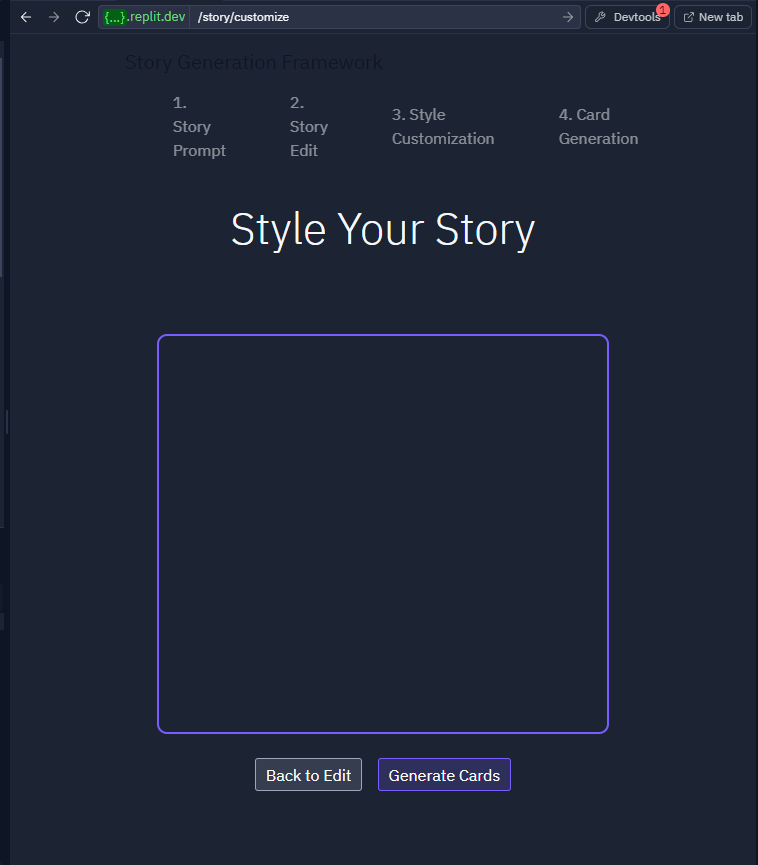
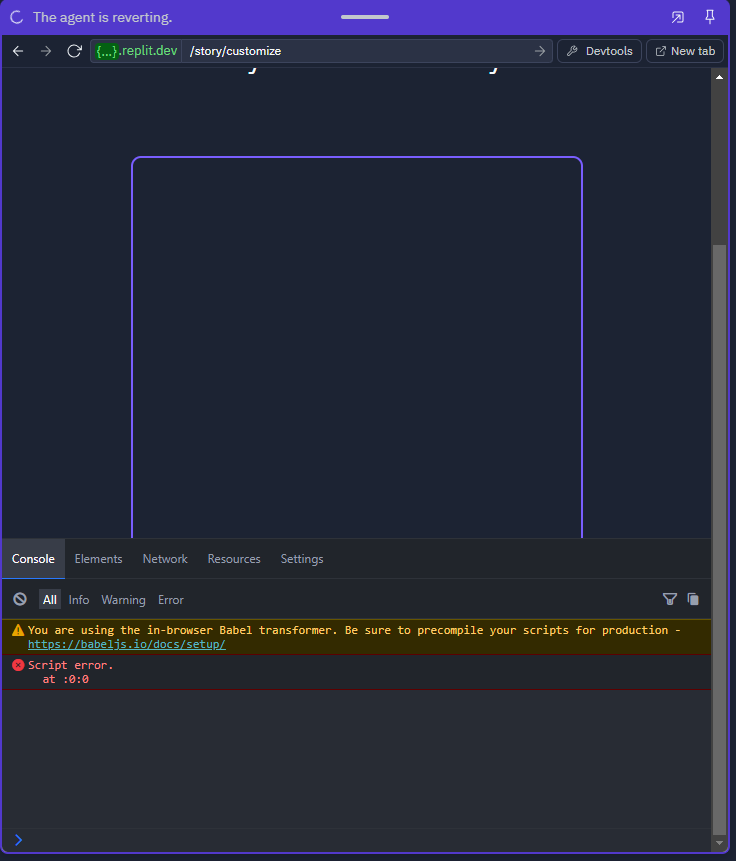
Agent query: Please check if the customization page loads with the node editor showing paragraph nodes and style options. Can you interact with the nodes and style dropdowns?

diff --git a/static/js/customize.js b/static/js/customize.js
@@ -1,158 +1,187 @@
 // customize.js
-const ParagraphNode = ({ data }) => {
-    return (
-        <div className="paragraph-node">
-            <div className="node-header">Paragraph {data.index + 1}</div>
-            <div className="node-content">{data.text.substring(0, 100)}...</div>
-        </div>
-    );
-};
-
-const EffectNode = ({ data }) => {
-    return (
-        <div className="effect-node">
-            <div className="node-header">{data.type}</div>
-            <select className="node-select" onChange={data.onChange}>
-                {data.options.map(opt => (
-                    <option key={opt.value} value={opt.value}>{opt.label}</option>
-                ))}
-            </select>
-        </div>
-    );
-};
-
-const NodeEditor = ({ paragraphs }) => {
-    const [nodes, setNodes] = React.useState([]);
-    const [edges, setEdges] = React.useState([]);
-    
-    React.useEffect(() => {
-        // Create paragraph nodes
-        const paragraphNodes = paragraphs.map((p, i) => ({
-            id: `p-${i}`,
-            type: 'paragraph',
-            position: { x: 100, y: i * 200 },
-            data: { index: i, text: p.text }
-        }));
-
-        // Create effect nodes
-        const effectNodes = paragraphs.flatMap((p, i) => [
-            {
-                id: `img-${i}`,
-                type: 'effect',
-                position: { x: 400, y: i * 200 },
-                data: {
-                    type: 'Image Style',
-                    options: [
-                        { value: 'realistic', label: 'Realistic' },
-                        { value: 'artistic', label: 'Artistic' },
-                        { value: 'fantasy', label: 'Fantasy' }
-                    ],
-                    onChange: (e) => handleStyleChange(i, 'image_style', e.target.value)
-                }
-            },
-            {
-                id: `voice-${i}`,
-                type: 'effect',
-                position: { x: 600, y: i * 200 },
-                data: {
-                    type: 'Voice Style',
-                    options: [
-                        { value: 'neutral', label: 'Neutral' },
-                        { value: 'dramatic', label: 'Dramatic' },
-                        { value: 'emotional', label: 'Emotional' }
-                    ],
-                    onChange: (e) => handleStyleChange(i, 'voice_style', e.target.value)
-                }
-            }
-        ]);
-
-        // Create edges
-        const edges = paragraphs.flatMap((p, i) => [
-            {
-                id: `p${i}-img${i}`,
-                source: `p-${i}`,
-                target: `img-${i}`,
-                type: 'smoothstep'
-            },
-            {
-                id: `p${i}-voice${i}`,
-                source: `p-${i}`,
-                target: `voice-${i}`,
-                type: 'smoothstep'
-            }
-        ]);
-
-        setNodes([...paragraphNodes, ...effectNodes]);
-        setEdges(edges);
-    }, [paragraphs]);
-
-    const handleStyleChange = (index, styleType, value) => {
-        window.styleData = window.styleData || { paragraphs: [] };
-        if (!window.styleData.paragraphs[index]) {
-            window.styleData.paragraphs[index] = { index };
-        }
-        window.styleData.paragraphs[index][styleType] = value;
-    };
-
-    return (
-        <div style={{ width: '100%', height: '100%' }}>
-            <ReactFlow
-                nodes={nodes}
-                edges={edges}
-                nodeTypes={{
-                    paragraph: ParagraphNode,
-                    effect: EffectNode
-                }}
-                fitView
-                minZoom={0.5}
-                maxZoom={1.5}
-                nodesDraggable={true}
-                nodesConnectable={false}
-                elementsSelectable={true}
-            />
-        </div>
-    );
-};
-
-// Initialize when the page loads
 document.addEventListener('DOMContentLoaded', () => {
     const container = document.getElementById('node-editor');
     const storyData = JSON.parse(container.dataset.story);
     
+    // Create root element for React
+    const root = document.createElement('div');
+    root.style.width = '100%';
+    root.style.height = '100%';
+    container.appendChild(root);
+    
+    // Initialize ReactFlow
+    const ReactFlowProvider = ReactFlow.ReactFlowProvider;
+    const ReactFlowInstance = ReactFlow.ReactFlow;
+    
+    // Define node components
+    const ParagraphNode = ({ data }) => {
+        return React.createElement('div', 
+            { className: 'paragraph-node' },
+            React.createElement('div', 
+                { className: 'node-header' }, 
+                `Paragraph ${data.index + 1}`
+            ),
+            React.createElement('div', 
+                { className: 'node-content' }, 
+                data.text.substring(0, 100) + '...'
+            )
+        );
+    };
+
+    const EffectNode = ({ data }) => {
+        return React.createElement('div',
+            { className: 'effect-node' },
+            React.createElement('div',
+                { className: 'node-header' },
+                data.type
+            ),
+            React.createElement('select',
+                {
+                    className: 'node-select',
+                    onChange: data.onChange,
+                    defaultValue: data.defaultValue
+                },
+                data.options.map(opt =>
+                    React.createElement('option',
+                        {
+                            key: opt.value,
+                            value: opt.value
+                        },
+                        opt.label
+                    )
+                )
+            )
+        );
+    };
+
+    // Create main editor component
+    const NodeEditor = () => {
+        const [nodes, setNodes] = React.useState([]);
+        const [edges, setEdges] = React.useState([]);
+        
+        React.useEffect(() => {
+            // Create paragraph nodes
+            const paragraphNodes = storyData.paragraphs.map((p, i) => ({
+                id: `p-${i}`,
+                type: 'paragraph',
+                position: { x: 100, y: i * 200 },
+                data: { index: i, text: p.text }
+            }));
+
+            // Create effect nodes
+            const effectNodes = storyData.paragraphs.flatMap((p, i) => [
+                {
+                    id: `img-${i}`,
+                    type: 'effect',
+                    position: { x: 400, y: i * 200 },
+                    data: {
+                        type: 'Image Style',
+                        defaultValue: 'realistic',
+                        options: [
+                            { value: 'realistic', label: 'Realistic' },
+                            { value: 'artistic', label: 'Artistic' },
+                            { value: 'fantasy', label: 'Fantasy' }
+                        ],
+                        onChange: (e) => handleStyleChange(i, 'image_style', e.target.value)
+                    }
+                },
+                {
+                    id: `voice-${i}`,
+                    type: 'effect',
+                    position: { x: 600, y: i * 200 },
+                    data: {
+                        type: 'Voice Style',
+                        defaultValue: 'neutral',
+                        options: [
+                            { value: 'neutral', label: 'Neutral' },
+                            { value: 'dramatic', label: 'Dramatic' },
+                            { value: 'emotional', label: 'Emotional' }
+                        ],
+                        onChange: (e) => handleStyleChange(i, 'voice_style', e.target.value)
+                    }
+                }
+            ]);
+
+            setNodes([...paragraphNodes, ...effectNodes]);
+            setEdges(storyData.paragraphs.flatMap((p, i) => [
+                {
+                    id: `p${i}-img${i}`,
+                    source: `p-${i}`,
+                    target: `img-${i}`,
+                    type: 'smoothstep'
+                },
+                {
+                    id: `p${i}-voice${i}`,
+                    source: `p-${i}`,
+                    target: `voice-${i}`,
+                    type: 'smoothstep'
+                }
+            ]));
+        }, []);
+
+        const handleStyleChange = (index, styleType, value) => {
+            window.styleData = window.styleData || { paragraphs: [] };
+            if (!window.styleData.paragraphs[index]) {
+                window.styleData.paragraphs[index] = { index };
+            }
+            window.styleData.paragraphs[index][styleType] = value;
+        };
+
+        return React.createElement(ReactFlowInstance, {
+            nodes: nodes,
+            edges: edges,
+            nodeTypes: {
+                paragraph: ParagraphNode,
+                effect: EffectNode
+            },
+            fitView: true,
+            minZoom: 0.5,
+            maxZoom: 1.5,
+            nodesDraggable: true,
+            nodesConnectable: false,
+            elementsSelectable: true
+        });
+    };
+
+    // Render editor with ReactFlow provider
     ReactDOM.render(
-        <NodeEditor paragraphs={storyData.paragraphs} />,
-        container
+        React.createElement(ReactFlowProvider, null,
+            React.createElement(NodeEditor)
+        ),
+        root
     );
     
     // Handle save and generation
     const saveButton = document.getElementById('save-customization');
-    saveButton?.addEventListener('click', async () => {
-        try {
-            saveButton.disabled = true;
-            const response = await fetch('/story/update_style', {
-                method: 'POST',
-                headers: {
-                    'Content-Type': 'application/json'
-                },
-                body: JSON.stringify(window.styleData || { paragraphs: [] })
-            });
-            
-            if (!response.ok) {
-                throw new Error('Failed to save style customization');
+    if (saveButton) {
+        saveButton.addEventListener('click', async () => {
+            try {
+                saveButton.disabled = true;
+                const response = await fetch('/story/update_style', {
+                    method: 'POST',
+                    headers: {
+                        'Content-Type': 'application/json'
+                    },
+                    body: JSON.stringify(window.styleData || { paragraphs: [] })
+                });
+                
+                if (!response.ok) {
+                    throw new Error('Failed to save style customization');
+                }
+                
+                const data = await response.json();
+                if (data.success) {
+                    window.location.href = '/story/generate';
+                } else {
+                    throw new Error(data.error || 'Failed to save customization');
+                }
+                
+            } catch (error) {
+                console.error('Error:', error);
+                alert('Failed to save customization. Please try again.');
+            } finally {
+                saveButton.disabled = false;
             }
-            
-            const data = await response.json();
-            if (data.success) {
-                window.location.href = '/story/generate';
-            } else {
-                throw new Error(data.error || 'Failed to save customization');
-            }
-            
-        } catch (error) {
-            console.error('Error:', error);
-            alert('Failed to save customization. Please try again.');
-        } finally {
-            saveButton.disabled = false;
-        }
-    });
+        });
+    }
 });

diff --git a/templates/story/customize.html b/templates/story/customize.html
@@ -16,5 +16,5 @@
 {% endblock %}
 
 {% block scripts %}
-<script type="text/babel" src="{{ url_for('static', filename='js/customize.js') }}"></script>
+<script src="{{ url_for('static', filename='js/customize.js') }}"></script>
 {% endblock %}
